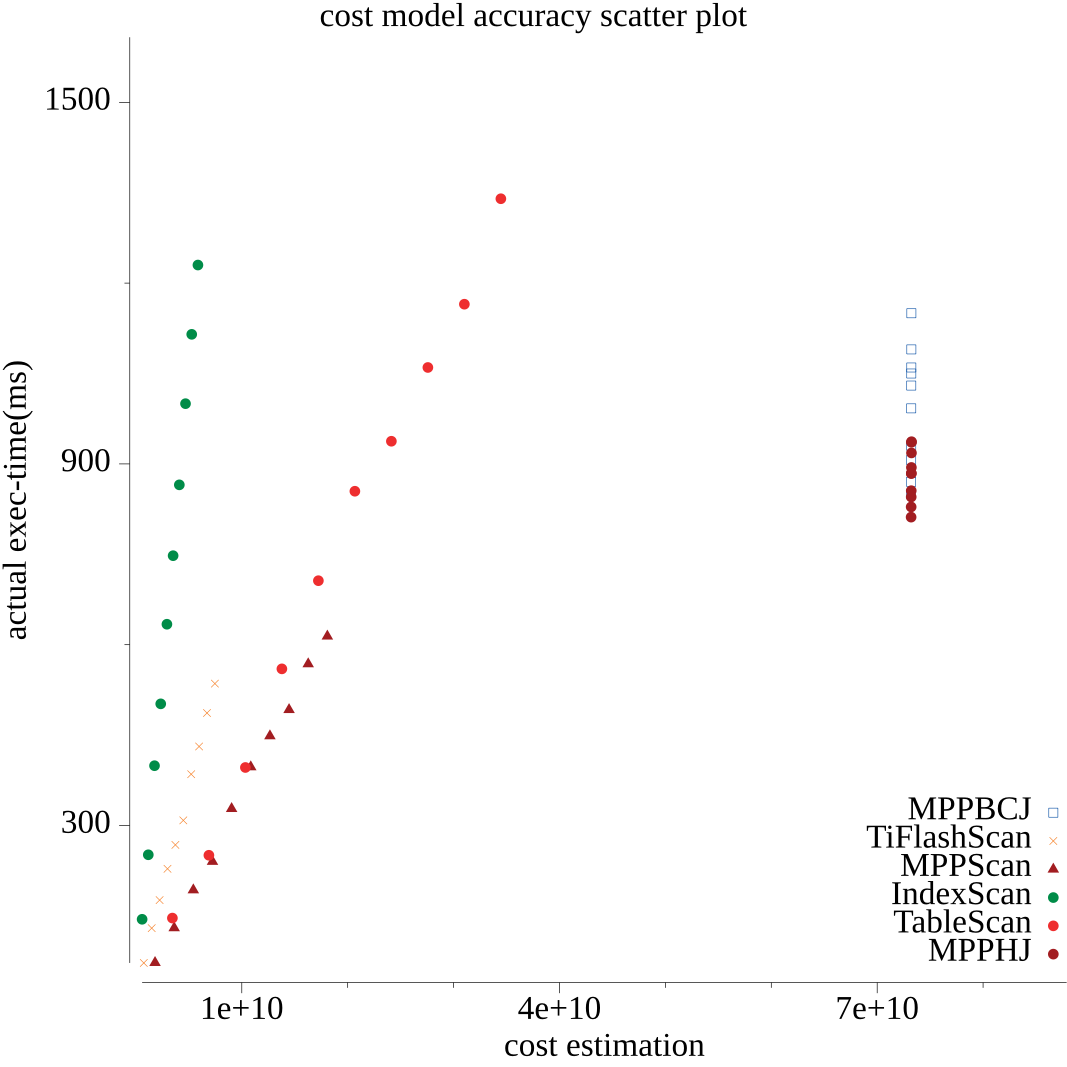
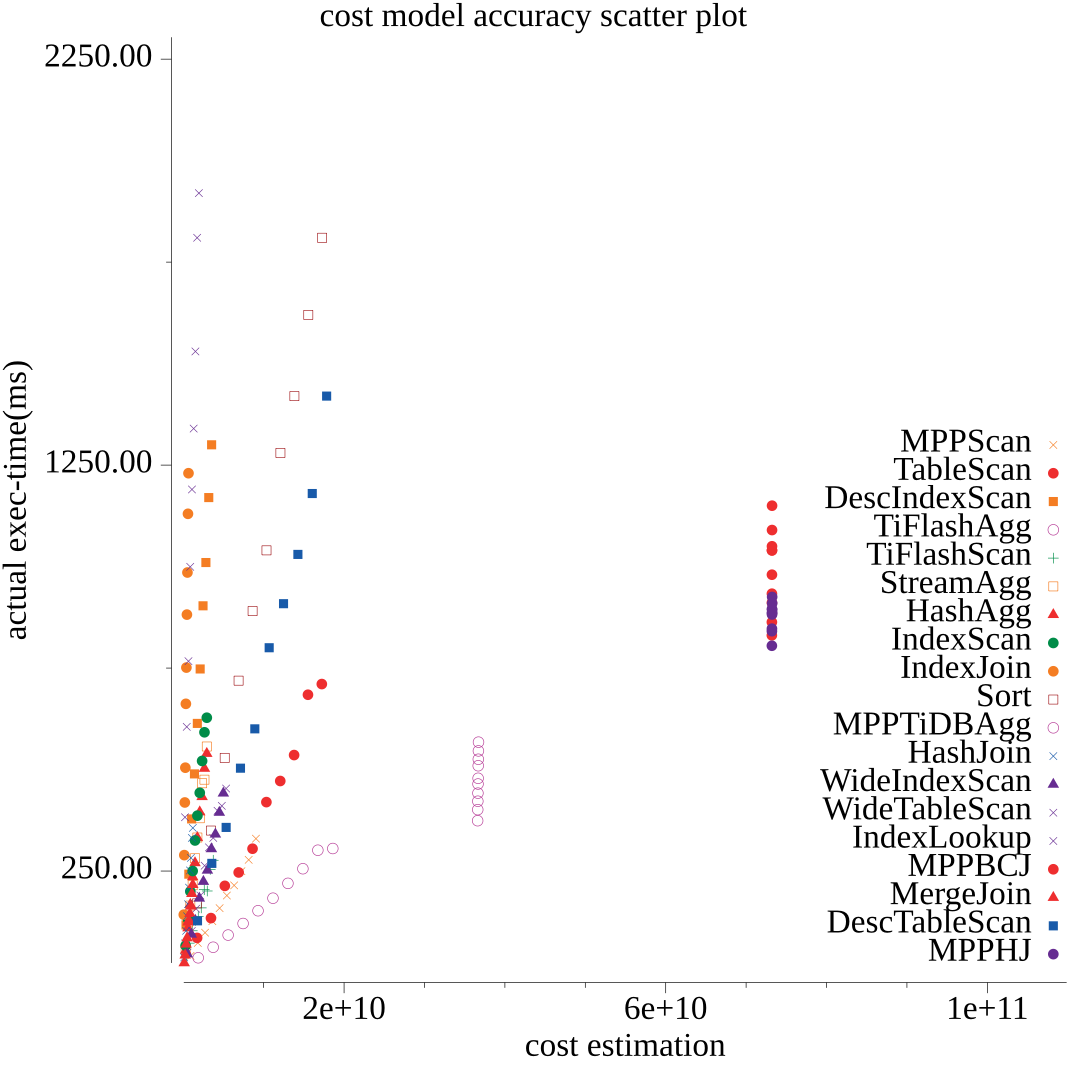
fixup

diff --git a/cost/draw.go b/cost/draw.go
@@ -38,7 +38,7 @@ func drawCostRecordsTo(r Records, f string) {
 		maxX = math.Max(maxX, x)
 		maxY = math.Max(maxY, y)
 	}
-	p.X.Max = maxX * 1.2
+	p.X.Max = maxX * 1.5
 	p.Y.Max = maxY * 1.2
 
 	labledRecords := make(map[string]Records)
